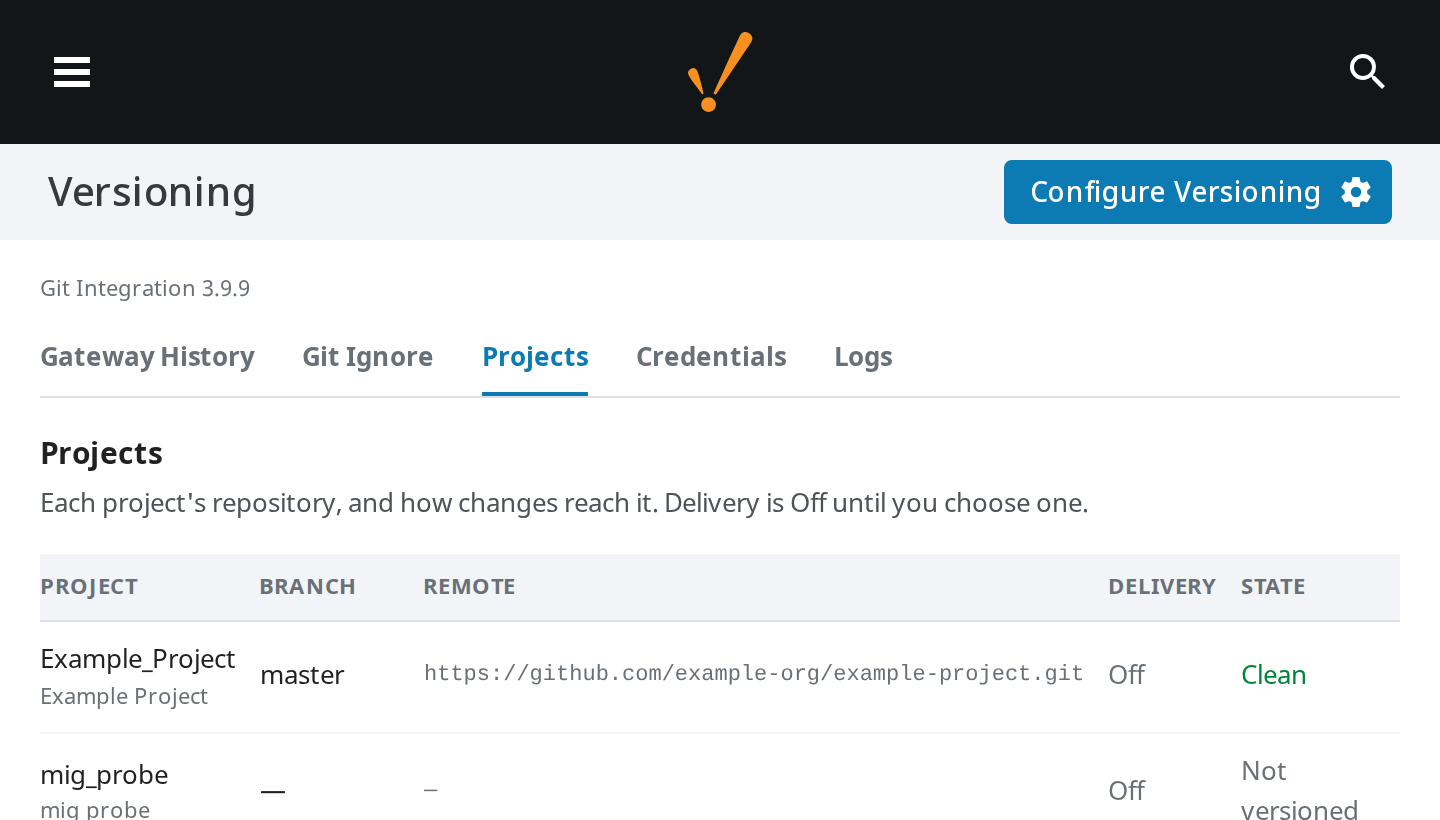
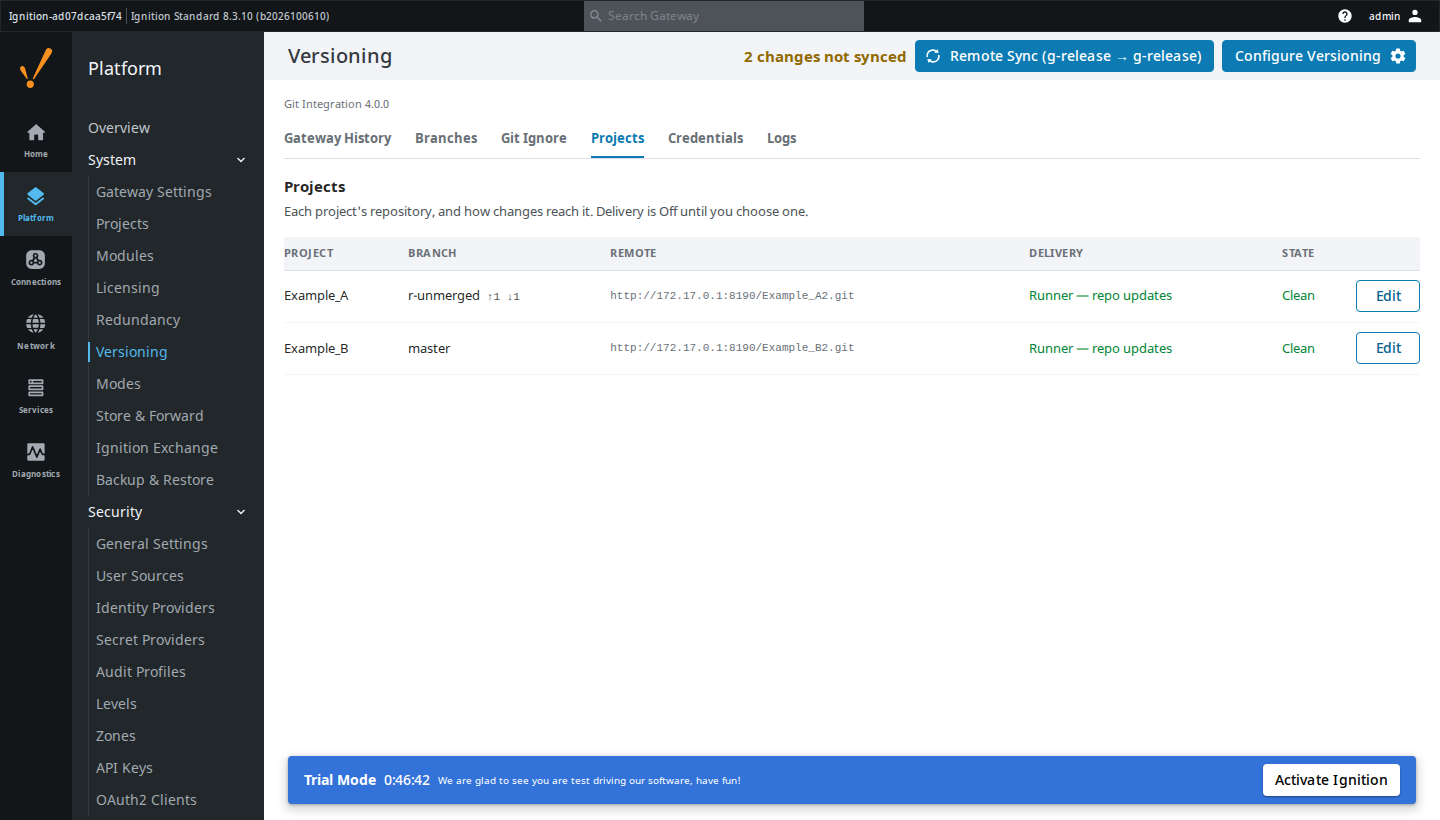
Docs: 4.0.0 fixes, Designer follows a switch, branch and layout screenshots

diff --git a/README.md b/README.md
@@ -138,12 +138,16 @@ the gateway repository and dims commits that leave that project. **Switch to
 this branch** changes it from the page; it is refused, with the files, while
 there is uncommitted work or while a sync or delivery follows another branch.
 
+![A project's Branches tab: commit graph and branch list](docs/images/versioning-branches.png)
+
 In Combined, a revert from the Designer is refused when the commit also changed
 files outside that project, rather than undoing config or another project's
 work from a window that cannot show it. Config's auto-commit and **Restore**
 leave `projects/` alone. A runner release and a deleted project are each
-committed for that project's folder only. The Designer reads the layout when it
-opens, so reopen it after a switch.
+committed for that project's folder only. An open Designer follows a layout or
+branch switch within ten seconds, without reopening.
+
+![The Repository layout setting](docs/images/versioning-layout.png)
 
 To switch: **Versioning → Configure Versioning → Repository layout**. It is
 refused, with nothing changed, while any project has uncommitted work.
@@ -179,6 +183,8 @@ branch's upstream, else HEAD) or `↑3` (three commits on no remote). Delete ref
 the checked-out branch and the branch a scheduled sync follows. A branch with
 unmerged or unpushed commits asks again, with the commit count, before **Delete
 anyway**. **Clean up…** fetches, then offers every gone or merged branch, ticked.
+
+![Branch list with gone and merged marks, and Clean up](docs/images/designer-branch-cleanup.png)
 
 Gateway config versioning: **Platform → System → Versioning → Initialize
 versioning**. Adjust what is covered under **Git Ignore**.

diff --git a/CHANGELOG.md b/CHANGELOG.md
@@ -13,7 +13,9 @@ upstream's; everything below is this fork.
   config (Versioning page). In Combined it shows the gateway repository and dims commits that leave
   the project. The Projects list has a Branch column with ↑/↓. **Switch to this branch** changes the
   branch from the page: refused with the file list when there is uncommitted work, or when a sync or
-  delivery follows another branch; it then loads the result and logs a `checkout` event.
+  delivery follows another branch; it then loads the result and logs a `checkout` event with the
+  signed-in user. An open Designer reloads the project within ten seconds, or, with unsaved edits,
+  says to save or discard them and update.
 - **Branch clean-up in the Designer.** The local branch list marks branches `[gone]` (deleted on
   the remote), `[merged]` and `↑N` (commits on no remote), and the sync branch shows as protected.
   **Clean up…** fetches, then offers every gone or merged branch, ticked, and deletes the ones you
@@ -42,6 +44,12 @@ upstream's; everything below is this fork.
   fetch, scheduled sync and the config repo's fetches).
 - **RPC:** `deleteBranch` takes a `force` flag and returns a refusal as text; new
   `getLocalBranchInfo` and `cleanupBranches`. `getLocalBranches` is unchanged.
+
+### Fixed
+- **A scheduled or runner pull that hits a merge conflict is undone.** It used to leave conflict
+  markers in the project's files and the repository mid-merge, so every later sync refused.
+  `/runner-sync` now answers 500 with `ok: false` for a failed pull, as it does in Combined, so the
+  workflow step fails.
 
 ## [3.11.3] - 2026-11-04
 
